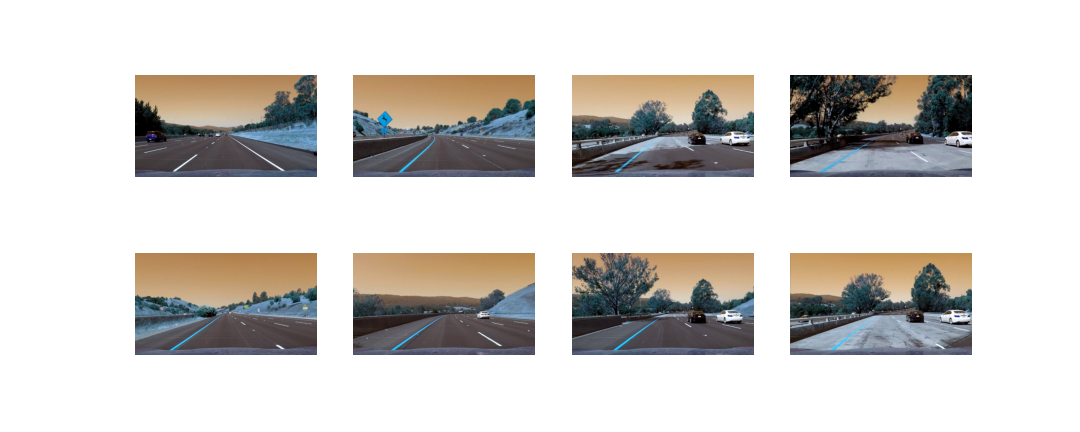
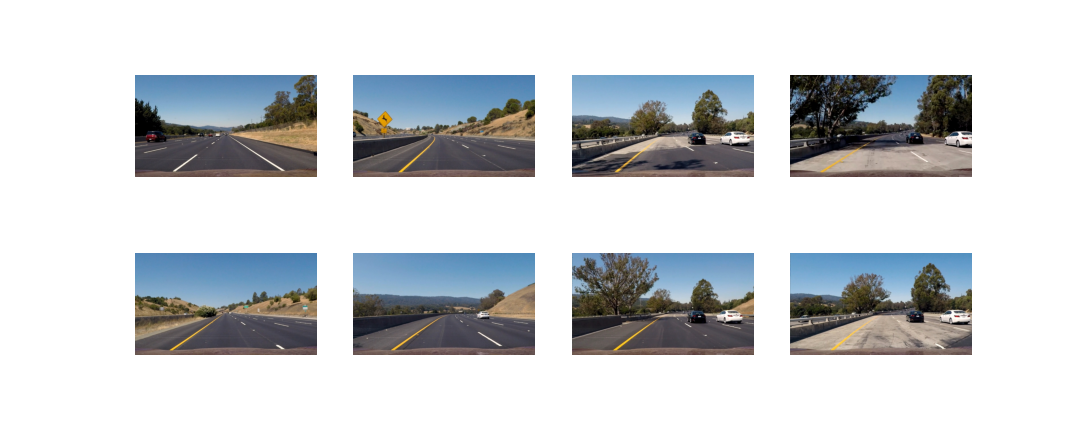
mod

diff --git a/perspective_transformation.py b/perspective_transformation.py
@@ -28,11 +28,12 @@ dist = cameraCalibrationImgs["dist"]
 
 ! unzip test_images
 
-# Load test images.
+# Load test images using glob.
+# read test images using cv2.imread .
 testImages = list(map(lambda imageFileName: (imageFileName, cv2.imread(imageFileName)), 
                       glob.glob('test_images/st*.jpg')))
 
-# apply cal_undistortAndHlS function to testimages and pask the images in a list to show
+# convert test images to RGB to show
 Test_imgsToShow = []
 for fname in testImages:
     fileName, img = fname

diff --git a/color_transform_&_gradient_threshold.py b/color_transform_&_gradient_threshold.py
@@ -28,7 +28,8 @@ dist = cameraCalibrationImgs["dist"]
 
 ! unzip test_images
 
-# Load test images.
+# Load test images using glob.
+# read test images using cv2.imread .
 testImages = list(map(lambda imageFileName: (imageFileName, cv2.imread(imageFileName)), 
                       glob.glob('test_images/*.jpg')))
 
@@ -48,7 +49,6 @@ def showImages(images, cols = 4, rows = 2, figsize=(15,6)):
             ax.axis('off')
 
 showImages(testImages)
-# plt.savefig("Test_Images.png")
 
 """**Undistort and color space**
 
